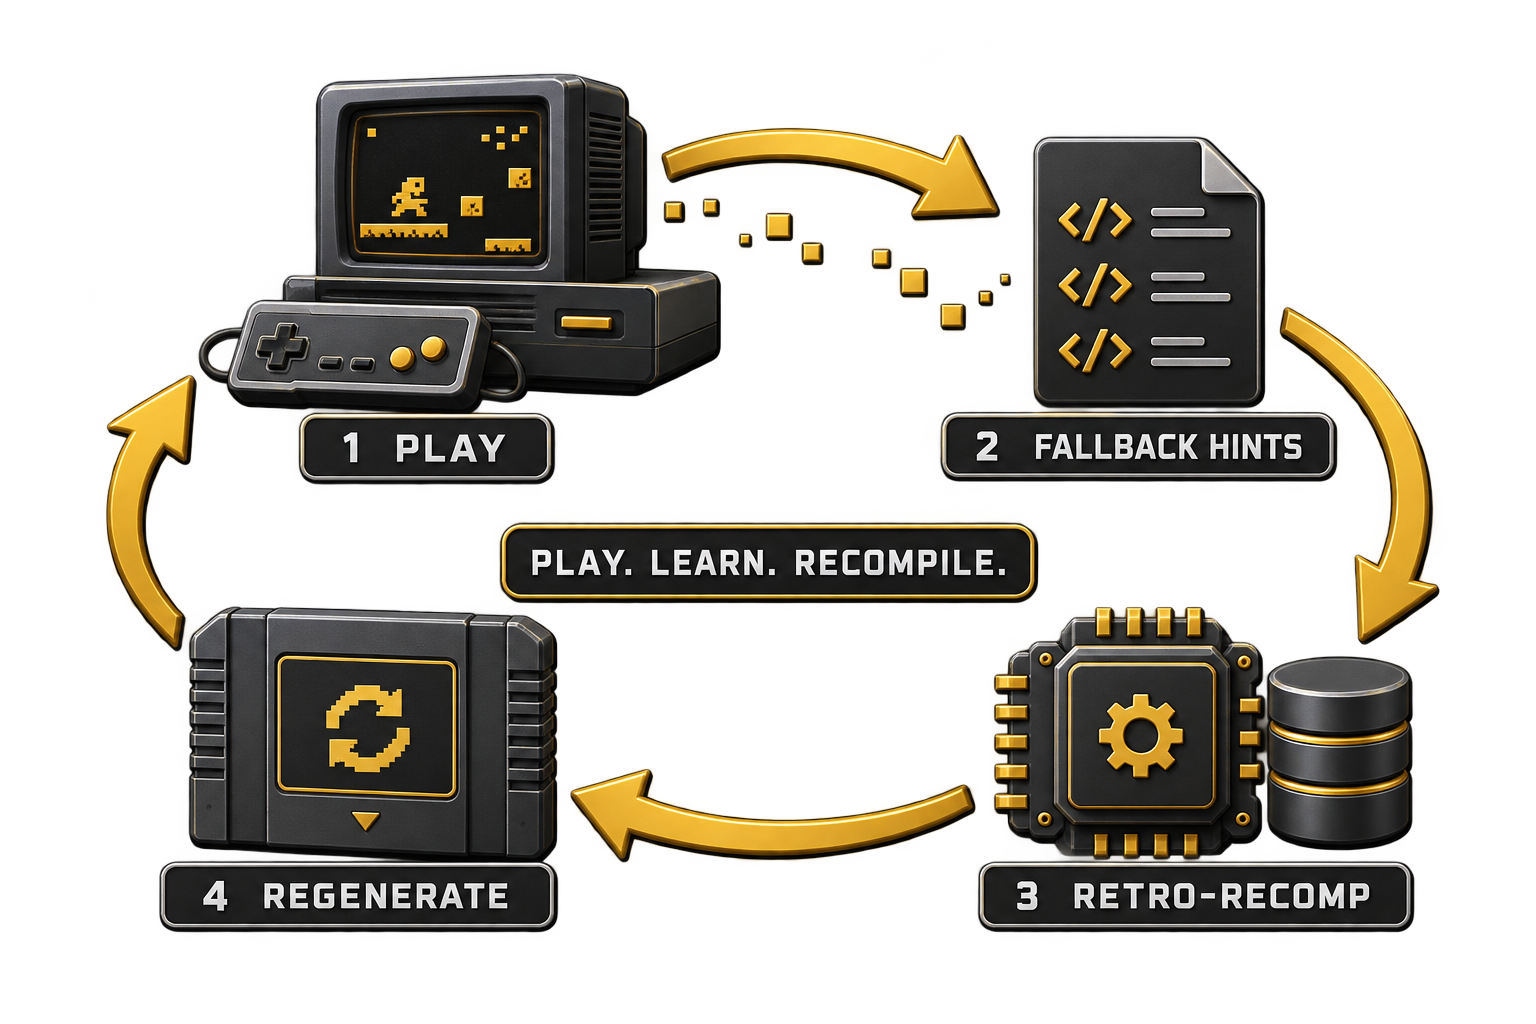
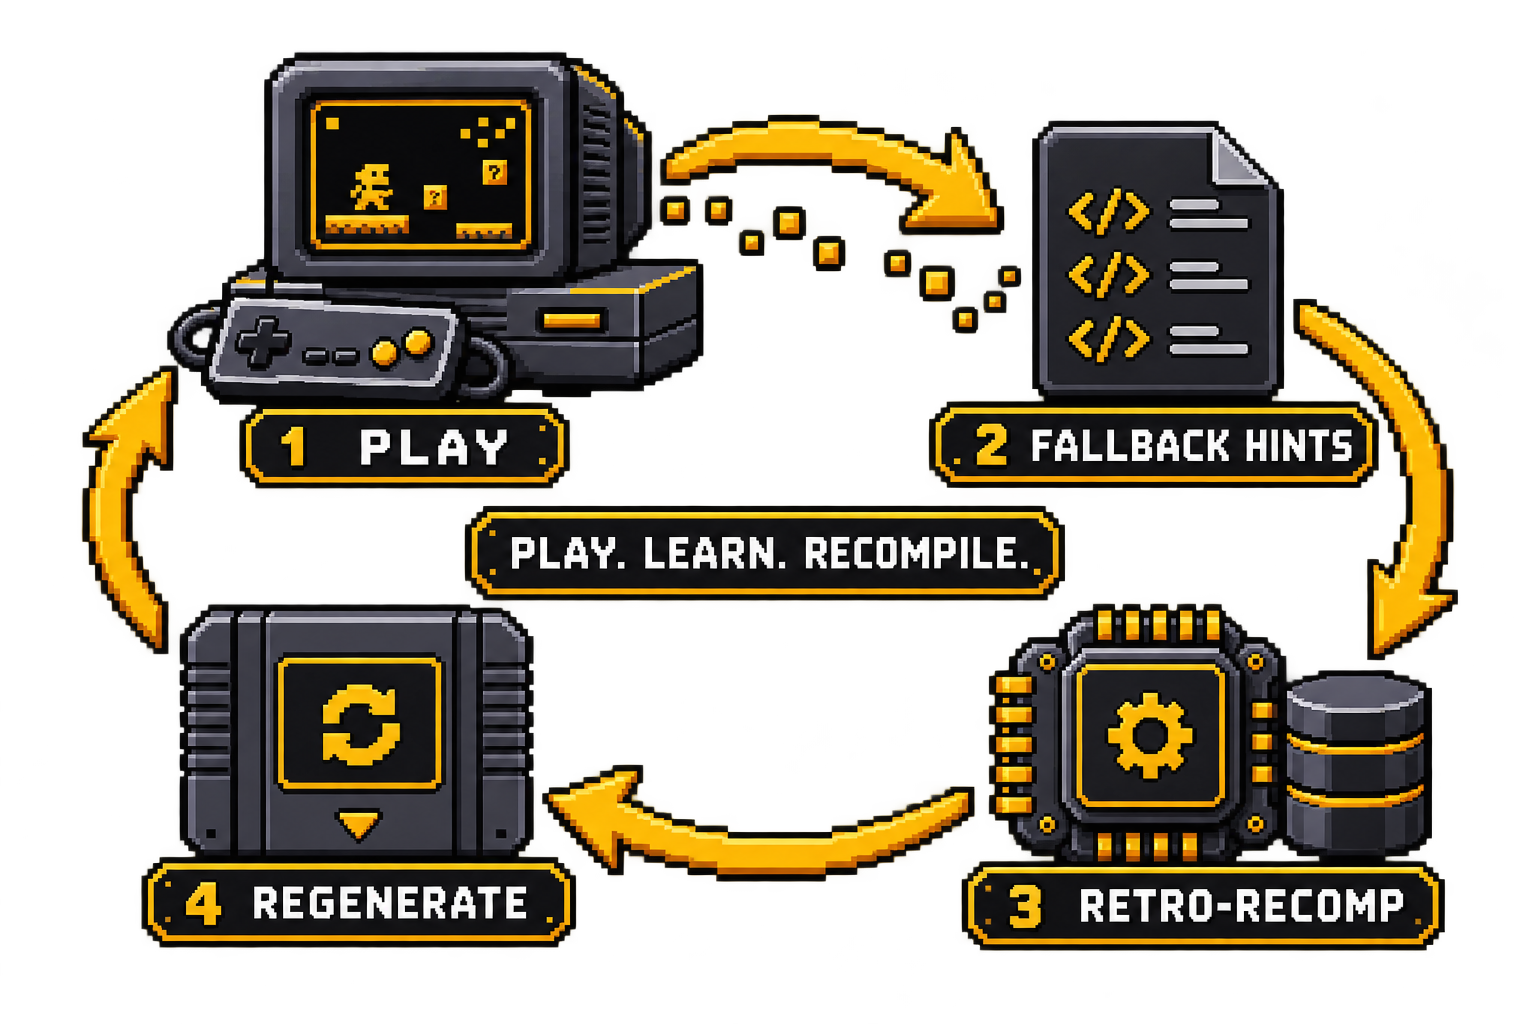
README: the RR cartridge heads the page, and the learning cycle is the new transparent picture (play, fallback hints, Retro-Recomp, regenerate)

diff --git a/tools/prepare_publication.py b/tools/prepare_publication.py
@@ -120,7 +120,7 @@ docs/RUNTIME_FEEDBACK.md
 docs/INDEX.md tools/check_doc_links.py tests/test_doc_links.py
 docs/CONTROLS.md docs/ROADMAP.md docs/RELEASE_NOTES.md docs/SYSTEM_PROFILES.md docs/GAME_GEAR.md docs/GAME_BOY.md docs/NES.md
 MEDIAS/RetroRecomp_logo.png MEDIAS/RetroRecomp_ban.png
-MEDIAS/RetroRecomp_logo_outlined.png MEDIAS/RetroRecomp_consoles.png
+MEDIAS/RetroRecomp_logo_outlined.png MEDIAS/RetroRecomp_cartridge_rr.png MEDIAS/RetroRecomp_consoles.png
 MEDIAS/RetroRecomp_UI_1.1.3.png
 MEDIAS/RetroRecomp_Master_System_Collection.png
 MEDIAS/RetroRecomp_Compiled_Games.png MEDIAS/RetroRecomp_Credits.png

diff --git a/README.md b/README.md
@@ -1,5 +1,5 @@
 <p align="center">
-  <img src="MEDIAS/RetroRecomp_logo_outlined.png?v=8fb265de351a" alt="RetroRecomp logo" width="182">
+  <img src="MEDIAS/RetroRecomp_cartridge_rr.png?v=2d587a5c09b8" alt="RetroRecomp: the RR cartridge" width="200">
 </p>
 
 <h1 align="center">RetroRecomp</h1>
@@ -144,7 +144,7 @@ meets interpreter fallback, it keeps small hints in memory and saves them
 **when you close it**, never during play. Regenerating then covers those paths.
 
 <p align="center">
-  <img src="MEDIAS/RetroRecomp_learning_cycle.png" alt="If fallback occurs: save hints, enrich Retro-Recomp's local memory, and regenerate the executable" width="640">
+  <img src="MEDIAS/RetroRecomp_learning_cycle.png?v=38297518336f" alt="The learning cycle: play, save fallback hints, Retro-Recomp learns from them, regenerate the game. Play. Learn. Recompile." width="640">
 </p>
 
 Recording is on by default; **F12** switches it off or on, and each game's file
